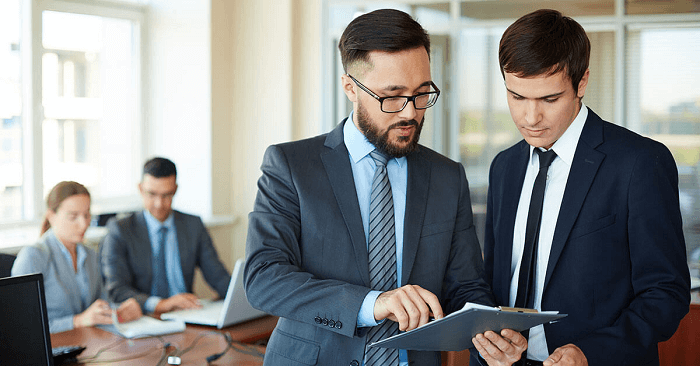
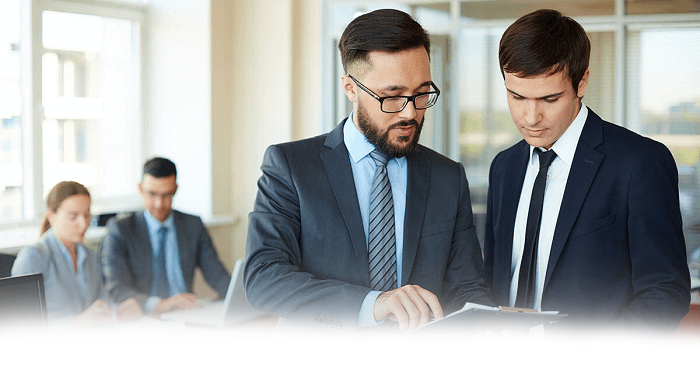
Theme changed for about us page

Changed region(s): [[0.0, 0.7213, 1.0, 1.0]]

diff --git a/Medeng Final/AboutUs.html b/Medeng Final/AboutUs.html
@@ -35,7 +35,7 @@
     <div><span class="MedEng-Logo"><img style="max-width: 180px;" src="./Assets/images/logoNew1.png" alt="logo"></span></div>
     
 
-    <nav class="navbar navbar-expand-lg navbar-dark custom-navbar">
+    <nav class="navbar navbar-expand-lg custom-navbar">
         <div class="container custom-container">
             <button class="navbar-toggler" type="button" data-bs-toggle="collapse" data-bs-target="#navbarNav" aria-controls="navbarNav" aria-expanded="false" aria-label="Toggle navigation">
                 <span class="navbar-toggler-icon"></span>
@@ -68,21 +68,21 @@
   <!-- Hero Section with Image and Gradient Overlay -->
   <section class="hero d-flex align-items-center">
     <div class="container text-center text-white hero-container-text-aboutPg container-hero" style="padding-top: 100px;">
-      <h1 class="hero-title" style="font-size: 4.375rem; font-family: 'almarai-extrabold', sans-serif; color:white; font-weight: 600;">Welcome to MedEng</h1>
+      <h1 class="hero-title" style="font-size: 4.375rem; font-family: 'almarai-extrabold', sans-serif; color:rgb(41, 39, 39); font-weight: 600; text-shadow: 4px 4px 10px rgba(0, 0, 0, 0.5);">Welcome to MedEng</h1>
       <span class="MedEng-logo-about"><img src="./Assets/images/logoNew1.png" alt="logo"></span>
     </div>
   </section>
 
   <!-- About Section -->
-  <section class="about text-white py-5 centered black-bg">
-    <h2>About Our Agency</h2>
-    <div class="container">
+  <section class="about text-white py-5 centered" style="background: linear-gradient(to bottom, #D2F5FE, #ffffff);">
+    <h2 style="color: rgb(41, 39, 39) ; text-shadow: 4px 4px 10px rgba(0, 0, 0, 0.5) ;font-size: 2.5rem;">About Our Agency</h2>
+    <div class="container" style="color: rgb(41, 39, 39)">
       <div class="row">
         <!-- Left Column: About Our Agency -->
         <div class="col-md-6">
           
           <p class="about-info">
-            <em><b><span style="color: #00F0FF;">MedEng Education Consultancy Pvt Ltd</span> </b></em> is a Reputed education consultancy firm, offering comprehensive guidance for international education opportunities. We help students turn their dream of studying abroad into a reality. Our services delivered by highly qualified experts who have successfully navigated their higher educational dreams. <br> <br>
+            <em><b><span style="color: #0a6b76;">MedEng Education Consultancy Pvt Ltd</span> </b></em> is a Reputed education consultancy firm, offering comprehensive guidance for international education opportunities. We help students turn their dream of studying abroad into a reality. Our services delivered by highly qualified experts who have successfully navigated their higher educational dreams. <br> <br>
             Our core mission is to provide top-tier educational and visa consulting, connecting students with the right course, university, and country to ensure a successful career path. We make overseas education both affordable and accessible. Also, we guide students through every step of the process.
   
       
@@ -94,11 +94,11 @@
           <div class="row text-center">
 
             <div class="col-md-12 mb-4">
-                <div class="text-button-container mx-auto"style="background: linear-gradient(to bottom, #19c5ec, #014661)" >
+                <div class="text-button-container mx-auto" style="background-color: transparent; color:rgb(41, 39, 39)" >
                     <div class="top-section">
                       <div class="text-part" style="font-size: 20px">Our Vision</div>
-                      <button class="expand-btn btn btn-dark" id="toggle-btn"  style="background: linear-gradient(to bottom, #00F0FF, #014661);">
-                        <i id="icon" class="bi bi-plus icon1"></i>
+                      <button class="expand-btn btn btn-dark" id="toggle-btn"  style="background-color: transparent;">
+                        <i id="icon" class="bi bi-plus icon1" style="color: #0094B5;"></i>
                       </button>
                     </div>
                   
@@ -115,11 +115,11 @@
 
 
             <div class="col-md-12 mb-4">
-                <div class="text-button-container mx-auto" style="background: linear-gradient(to bottom, #00F0FF, #014661);">
+                <div class="text-button-container mx-auto" style="background-color: transparent; color:rgb(41, 39, 39)">
                     <div class="top-section">
                       <div class="text-part" style="font-size: 20px;">Our Mission</div>
-                      <button class="expand-btn btn btn-dark" id="toggle-btn"style="background: linear-gradient(to bottom, #19c5ec, #014661)">
-                        <i id="icon" class="bi bi-plus icon1"></i>
+                      <button class="expand-btn btn btn-dark" id="toggle-btn" style="background-color: transparent;">
+                        <i id="icon" class="bi bi-plus icon1" style="color: #0094B5;"></i>
                       </button>
                     </div>
                   
@@ -139,39 +139,59 @@
   </section>
 
   <!-- Why us section -->
-  <section class="services-section black-bg text-white py-5 centered why-us" id="our-services">
-    <h2>We Assist You With</h2>
-    <div class="service-item-container" style="margin-top: 30px;">
+  <section class="services-section black-bg text-white py-5 centered why-us" id="our-services" style="background: linear-gradient(to bottom, #ffffff, #CAF4FF);">
+    <h2 style="color: rgb(41, 39, 39) ; text-shadow: 4px 4px 10px rgba(0, 0, 0, 0.5); font-size: 2.5rem;">We Assist You With</h2>
+    <div class="service-item-container" style="margin-top: 30px; color: rgb(41, 39, 39)">
       <div class="service-item">
-        <div class="service-number">01</div>
-        <div class="service-content">
-          <h3>Selecting the best course and university tailored to your goals</h3>
-        </div>
-      </div>
-  
-      <div class="service-item">
-        <div class="service-number">02</div>
+        <div class="service-number" 
+        style="
+       -webkit-text-stroke: 2px rgb(41, 39, 39); 
+       /* text-shadow: 0 0 7px #2a2b2c;  */
+       font-size: 3.5rem;
+       "><b>01</b></div>
         <div class="service-content">
           <h3>Understanding and meeting entry requirements</h3>
         </div>
       </div>
   
       <div class="service-item">
-        <div class="service-number">03</div>
+        <div class="service-number" 
+        style="
+       -webkit-text-stroke: 2px rgb(41, 39, 39); 
+       /* text-shadow: 0 0 7px #2a2b2c;  */
+       font-size: 3.5rem;
+       "><b>02</b></div>
         <div class="service-content">
-          <h3>Assisting with documentation</h3>
+          <h3>Understanding and meeting entry requirements</h3>
         </div>
       </div>
   
       <div class="service-item">
-        <div class="service-number">04</div>
+        <div class="service-number" 
+        style="
+       -webkit-text-stroke: 2px rgb(41, 39, 39); 
+       /* text-shadow: 0 0 7px #2a2b2c;  */
+       font-size: 3.5rem;
+       "><b>03</b></div>
         <div class="service-content">
-          <h3>Guiding you through the visa process</h3>
+          <h3>Understanding and meeting entry requirements</h3>
+        </div>
+      </div>
+  
+      <div class="service-item">
+        <div class="service-number" 
+        style="
+       -webkit-text-stroke: 2px rgb(41, 39, 39); 
+       /* text-shadow: 0 0 7px #2a2b2c;  */
+       font-size: 3.5rem;
+       "><b>04</b></div>
+        <div class="service-content">
+          <h3>Understanding and meeting entry requirements</h3>
         </div>
       </div>
     </div>
 
-    <p style="display: inline-block; width: 50%;">At MedEng, we ensure that students receive personalized, step-by-step support from start to finish, 
+    <p style="display: inline-block; width: 50%; color: rgb(41, 39, 39)">At MedEng, we ensure that students receive personalized, step-by-step support from start to finish, 
       making their higher education journey smooth and successful.</p>
   </section>
   
@@ -199,59 +219,48 @@
 
      <!-- Footer Section -->
 
-     <footer class="text-white py-4" style="background: linear-gradient(to bottom, #000000, #0094B5);padding-top: 50px;">
-      <div class="container">
+     <footer class="text-white py-4" style="background: linear-gradient(to bottom, #CAF4FF, #0094B5);padding-top: 50px;">
+      <div class="container" style="color: rgb(41, 39, 39);">
           <img src="./Assets/images/logoNew1.png" alt="Logo" class="img-fluid me-2 footer-logo" style="width: 180px;margin-left: -45px;"> 
-          <div class="row">
-          <div class="col-lg-4 col-md-6 mb-4">
-          
-            <ul class="list-unstyled">
-              <li><a href="./AboutUs.html" class="text-white">About Us</a></li>
-              <li><a href="#" class="text-white">Our Services</a></li>
-              <li><a href="./ContactUs.html" class="text-white">Contact</a></li>
-            </ul>
-          </div>
-          
-  
-          <div class="col-lg-4 col-md-6 mb-4">
-            <h5><i class="fa-solid fa-phone" style="color:  #00ffae;"></i> +447398826484</h5>
-            <h5><i class="fa-brands fa-whatsapp" style="color:  #00ffae;"></i> +447398826484</h5>
-            <h5><i class="fa fa-envelope-o" style="color: #00ffae;"></i> info@medeng.co.uk</h5>
-            <h5><i class="fa fa-envelope-o" style="color: #00ffae;"></i> info@parthtouk.com</h5>
-            
-          </div>
-          
-  
-          <div class="col-lg-4 col-md-6 mb-4">
-            <h5>Home Office</h5>
-            <address>
-              67 Langney Road,<br>
-              Eastbourne,<br>
-              East Sussex, <br>
-              England <br>
-              BN213QD
+          <div class="row" >
+              <div class="col-lg-4 col-md-6 mb-4">
+                  <ul class="list-unstyled">
+                      <li><a href="./AboutUs.html" style="color: rgb(41, 39, 39);">About Us</a></li>
+                      <li><a href="#" style="color: rgb(41, 39, 39);">Our Services</a></li>
+                      <li><a href="./ContactUs.html" style="color: rgb(41, 39, 39);">Contact</a></li>
+                  </ul>
+              </div>
+              <div class="col-lg-4 col-md-6 mb-4">
+                  <h5><i class="fa-solid fa-phone" style="color:  #025339;"></i> +447398826484</h5>
+                  <h5><i class="fa-brands fa-whatsapp" style="color:  #025339;"></i> +447398826484</h5>
+                  <h5><i class="fa fa-envelope-o" style="color: #025339;"></i> info@medeng.co.uk</h5>
 
-            </address>
+              </div>
+              <div class="col-lg-4 col-md-6 mb-4" >
+                  <h5>Home Office</h5>
+                  <address>
+                      67 Langney Road,<br>
+                      Eastbourne,<br>
+                      East Sussex,<br>
+                      England<br>
+                      BN213QD
+                  </address>
+              </div>
           </div>
-        </div>
-  
-  
-  
-        <div class="row mt-4">
-          <div class="col text-center">
-            <!-- Social Links -->
-            <a href="#" class="text-white me-3"><i class="bi bi-facebook"></i></a>
-            <a href="#" class="text-white me-3"><i class="bi bi-instagram"></i></a>
-            <a href="#" class="text-white"><i class="bi bi-twitter"></i></a>
+          <div class="row mt-4">
+              <div class="col text-center">
+                  <a href="#" class="text-dark me-3"><i class="bi bi-facebook"></i></a>
+                  <a href="#" class="text-dark me-3"><i class="bi bi-instagram"></i></a>
+                  <a href="#" class="text-dark"><i class="bi bi-twitter"></i></a>
+              </div>
           </div>
-        </div>
-        <div class="row mt-3">
-          <div class="col text-center">
-            <p>© 2024 MedEng</p>
+          <div class="row mt-3">
+              <div class="col text-center">
+                  <p>© 2024 MedEng</p>
+              </div>
           </div>
-        </div>
       </div>
-    </footer>
+  </footer>
 
 
     <script>

diff --git a/Medeng Final/Assets/css/style.css b/Medeng Final/Assets/css/style.css
@@ -568,7 +568,7 @@ width: 100%;
 /* Hero section with image and gradient overlay */
 .hero {
   position: relative;
-  background: url('../../Assets/images/aboutus.png') no-repeat center center; 
+  background: url('../../Assets/images/aboutus.png') no-repeat center center;
   background-size: cover; 
   height: 700px;
   display: flex;
@@ -584,8 +584,8 @@ width: 100%;
   top: 0;
   left: 0;
   width: 100%;
-  height: 120%;
-  background: linear-gradient(180deg, #0094B5, #000000);
+  height: 700px;
+  background: linear-gradient(to bottom, #0094B5, #CAF4FF);
   opacity: 0.8; /* Adjust the opacity */
   z-index: 1;
 }
@@ -702,7 +702,7 @@ width: 100%;
 .service-number {
   font-size: 2.5em;
   color: #00e1ff;
-  margin-right: 20px;
+  margin-right: 40px;
   position: relative;
   width: 50px;
   text-align: center;
